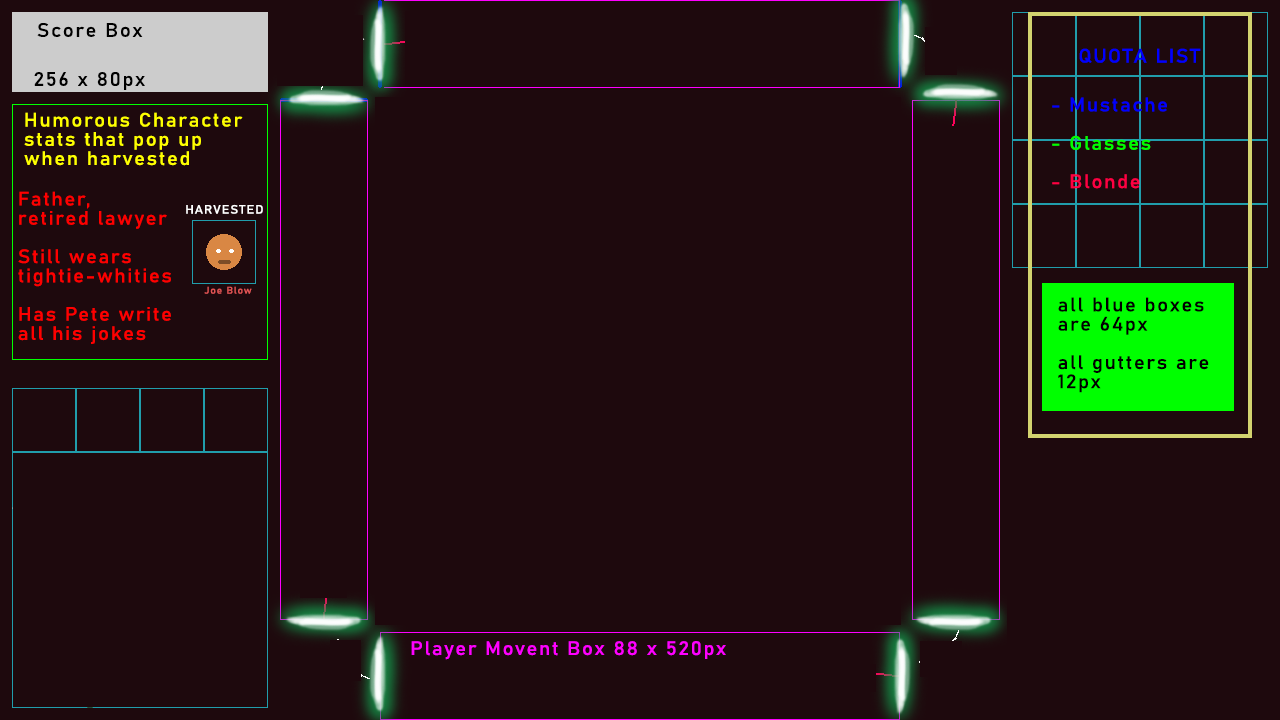
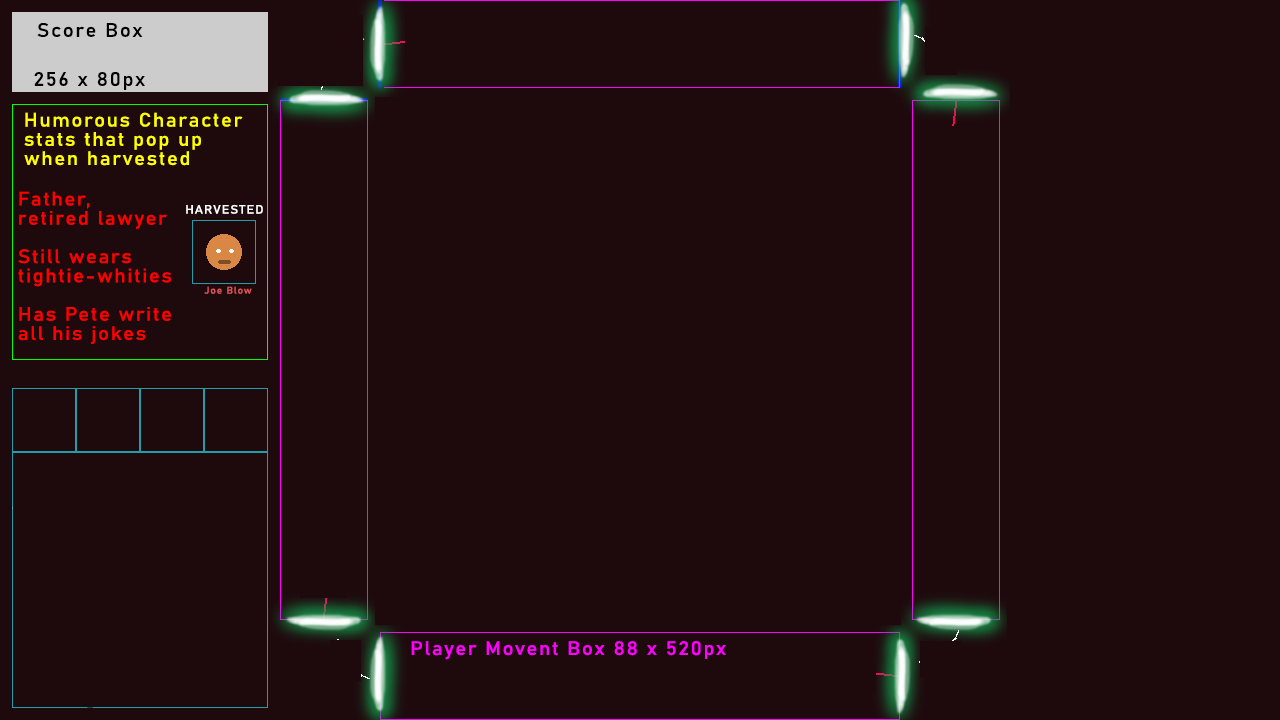
Match width of quota and hourglass ui regions

Changed region(s): [[0.7812, 0.0, 1.0, 0.6111]]

diff --git a/core/src/main/java/lando/systems/ld52/ui/RightSideUI.java b/core/src/main/java/lando/systems/ld52/ui/RightSideUI.java
@@ -5,7 +5,7 @@ import com.kotcrab.vis.ui.widget.VisTable;
 import lando.systems.ld52.Assets;
 
 public class RightSideUI extends VisTable {
-    private final float WIDTH = 256f;
+    private final float WIDTH = 220f;
     private final float QUOTA_HEIGHT = 450f;
     private final float MARGIN = 12f;
     public QuotaListUI quotaListUI;

diff --git a/core/src/main/java/lando/systems/ld52/ui/QuotaListUI.java b/core/src/main/java/lando/systems/ld52/ui/QuotaListUI.java
@@ -36,6 +36,7 @@ public class QuotaListUI extends VisWindow {
         setTouchable(Touchable.disabled);
         setBackground(new NinePatchDrawable(Assets.NinePatches.plain_gradient));
 
+
         heavenQuotaTable = new VisTable();
         hellQuotaTable = new VisTable();
 
